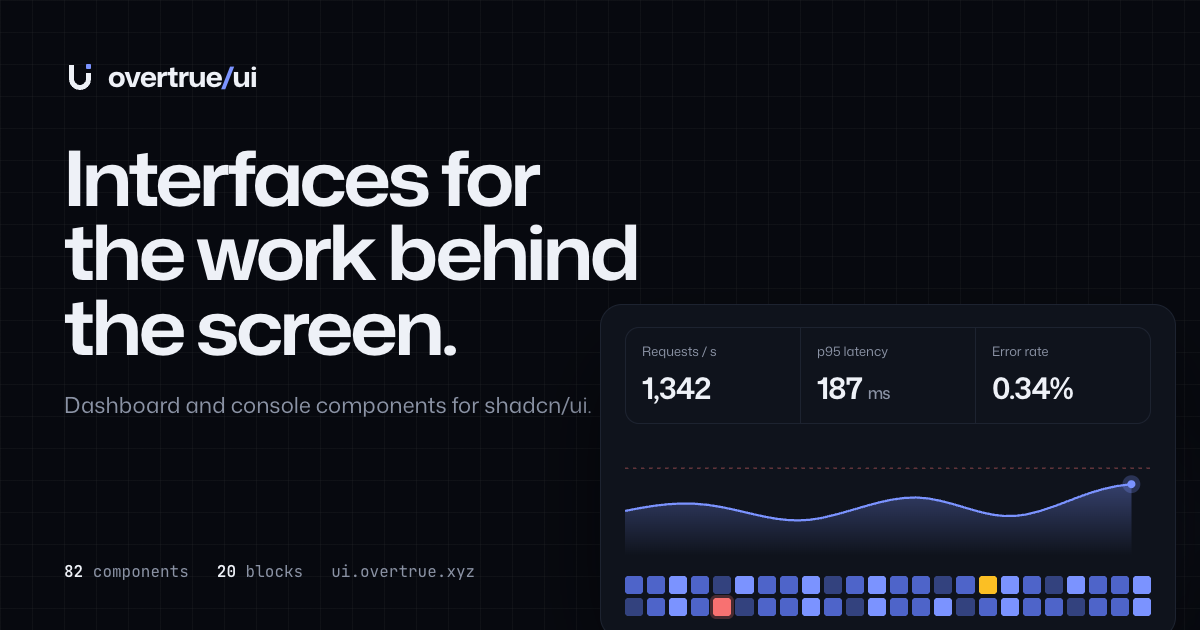
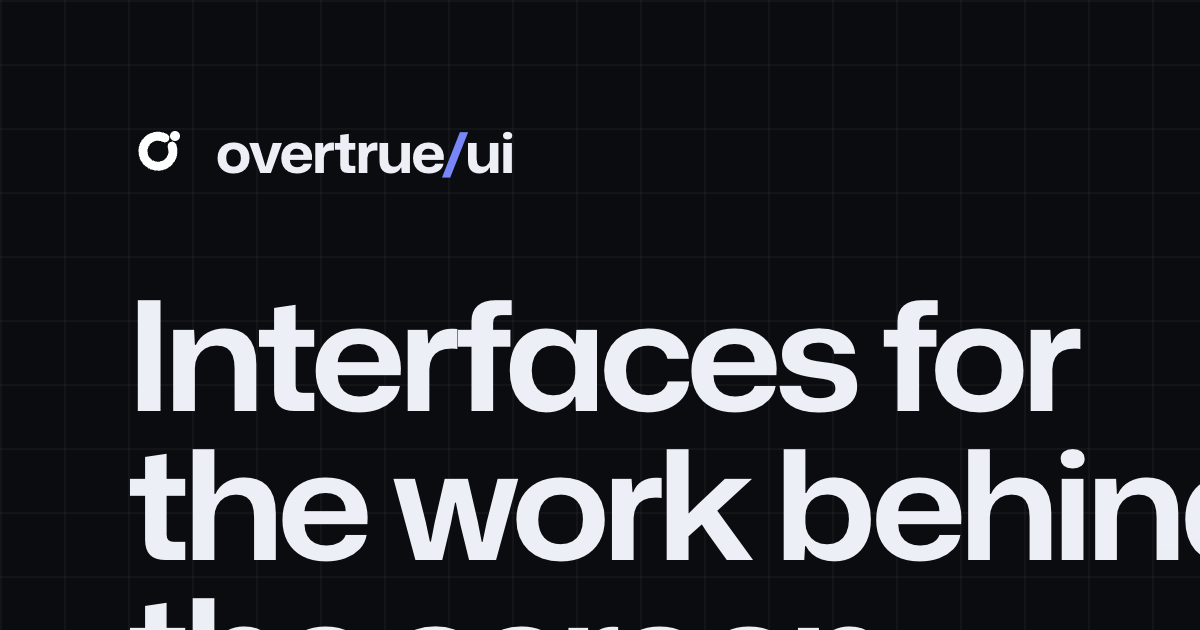
Use shared overtrue branding across the site

diff --git a/src/components/brand-mark.tsx b/src/components/brand-mark.tsx
@@ -1,28 +1,25 @@
 import type { ComponentProps } from "react";
 
-/** An open u with the detached dot of an i. */
+/** The shared overtrue open-ring mark. */
 export function BrandMark(props: ComponentProps<"svg">) {
   return (
     <svg
-      viewBox="0 0 32 32"
+      viewBox="0 0 64 64"
       width="28"
       height="28"
       fill="none"
+      color="#244cff"
+      data-brand-mark=""
       aria-hidden="true"
       {...props}
     >
       <path
-        d="M5 5h5v14a6 6 0 0 0 12 0v-6h5v6a11 11 0 0 1-22 0V5Z"
-        fill="currentColor"
+        d="M44 26a15 15 0 1 1-7-8"
+        stroke="currentColor"
+        strokeWidth="9"
+        strokeLinecap="round"
       />
-      <rect
-        x="22"
-        y="4"
-        width="5"
-        height="5"
-        rx="1"
-        fill="var(--color-primary, #2a5bff)"
-      />
+      <circle cx="47" cy="16" r="5" fill="var(--brand-dot, #8da5ff)" />
     </svg>
   );
 }

diff --git a/scripts/site/social.html b/scripts/site/social.html
@@ -30,7 +30,7 @@ footer { position: absolute; left: 64px; bottom: 48px; display: flex; gap: 28px;
 footer b { color: #eef1f7; font-weight: 600; }
 </style>
 <div class="glow"></div>
-<div class="brand"><svg width="32" height="32" viewBox="0 0 32 32"><path d="M5 5h5v14a6 6 0 0 0 12 0v-6h5v6a11 11 0 0 1-22 0V5Z" fill="#eef1f7"/><rect x="22" y="4" width="5" height="5" rx="1" fill="#7b93ff"/></svg><span>overtrue<em>/</em>ui</span></div>
+<div class="brand"><svg width="32" height="32" viewBox="0 0 64 64" color="#fff" style="--brand-dot:#fff"><path d="M44 26a15 15 0 1 1-7-8" fill="none" stroke="currentColor" stroke-width="9" stroke-linecap="round"/><circle cx="47" cy="16" r="5" fill="var(--brand-dot, #8da5ff)"/></svg><span>overtrue<em>/</em>ui</span></div>
 <h1>Interfaces for<br>the work behind<br>the screen.</h1>
 <p class="sub">Dashboard and console components for shadcn/ui.</p>
 <div class="console">

diff --git a/src/styles/workspace-modern.css b/src/styles/workspace-modern.css
@@ -3,6 +3,13 @@
  * scene compositions through the same shadcn tokens the customizer controls, so
  * every accent, base palette, radius and font choice still applies.
  */
+.dark [data-brand-mark],
+html:is([data-workspace-navbar-theme="dark"], [data-workspace-navbar-theme="primary"])
+  :is(.workspace-logo, .workspace-sidebar-brand) [data-brand-mark] {
+  color: #ffffff;
+  --brand-dot: #ffffff;
+}
+
 .overtrue-workspace {
   --ws-hairline: hsl(var(--border));
   --ws-hover: color-mix(in oklab, hsl(var(--foreground)) 5%, transparent);

diff --git a/src/site/home.css b/src/site/home.css
@@ -701,12 +701,11 @@
     background-color 240ms,
     border-radius 240ms var(--ease-out);
 }
-.lab-app-brand > span svg {
+.lab-app-brand > span svg[data-brand-mark] {
   width: 24px;
   height: 24px;
-}
-.lab-app-brand > span svg rect {
-  fill: currentColor;
+  color: inherit;
+  --brand-dot: currentColor;
 }
 .lab-app-brand strong {
   display: block;

diff --git a/src/site/system.css b/src/site/system.css
@@ -3,6 +3,11 @@
  * One typeface (Mona Sans, using its width axis for display type), one accent,
  * and status colors that only appear where they mean something.
  */
+.dark [data-brand-mark] {
+  color: #ffffff;
+  --brand-dot: #ffffff;
+}
+
 :root {
   --site-bg: #ffffff;
   --site-subtle: #fafafa;
